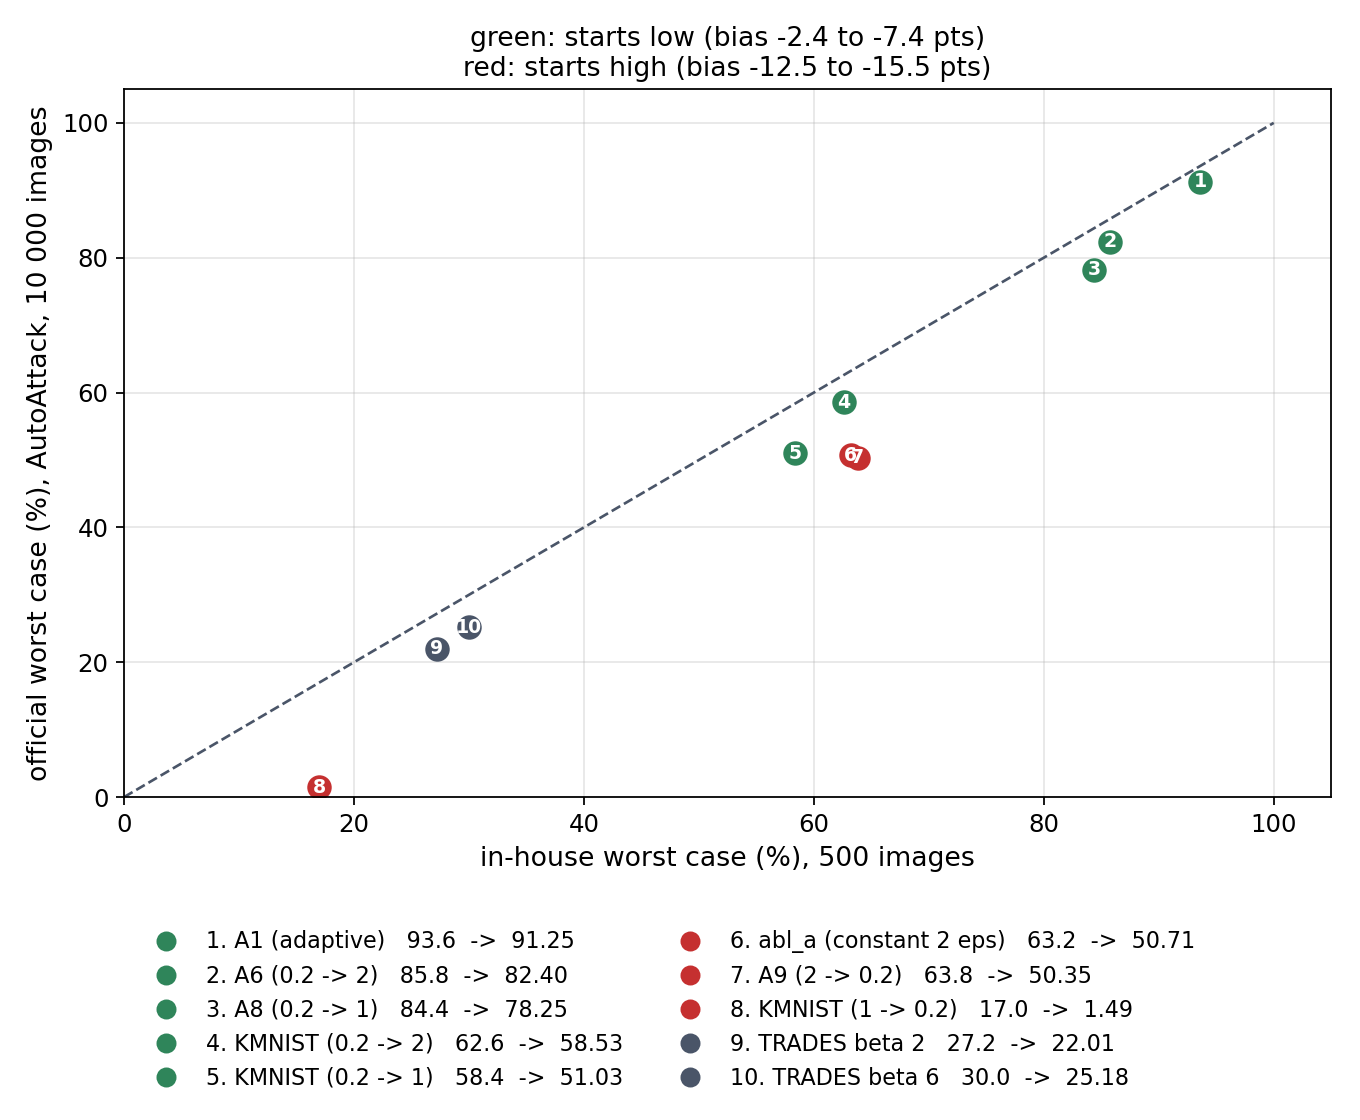
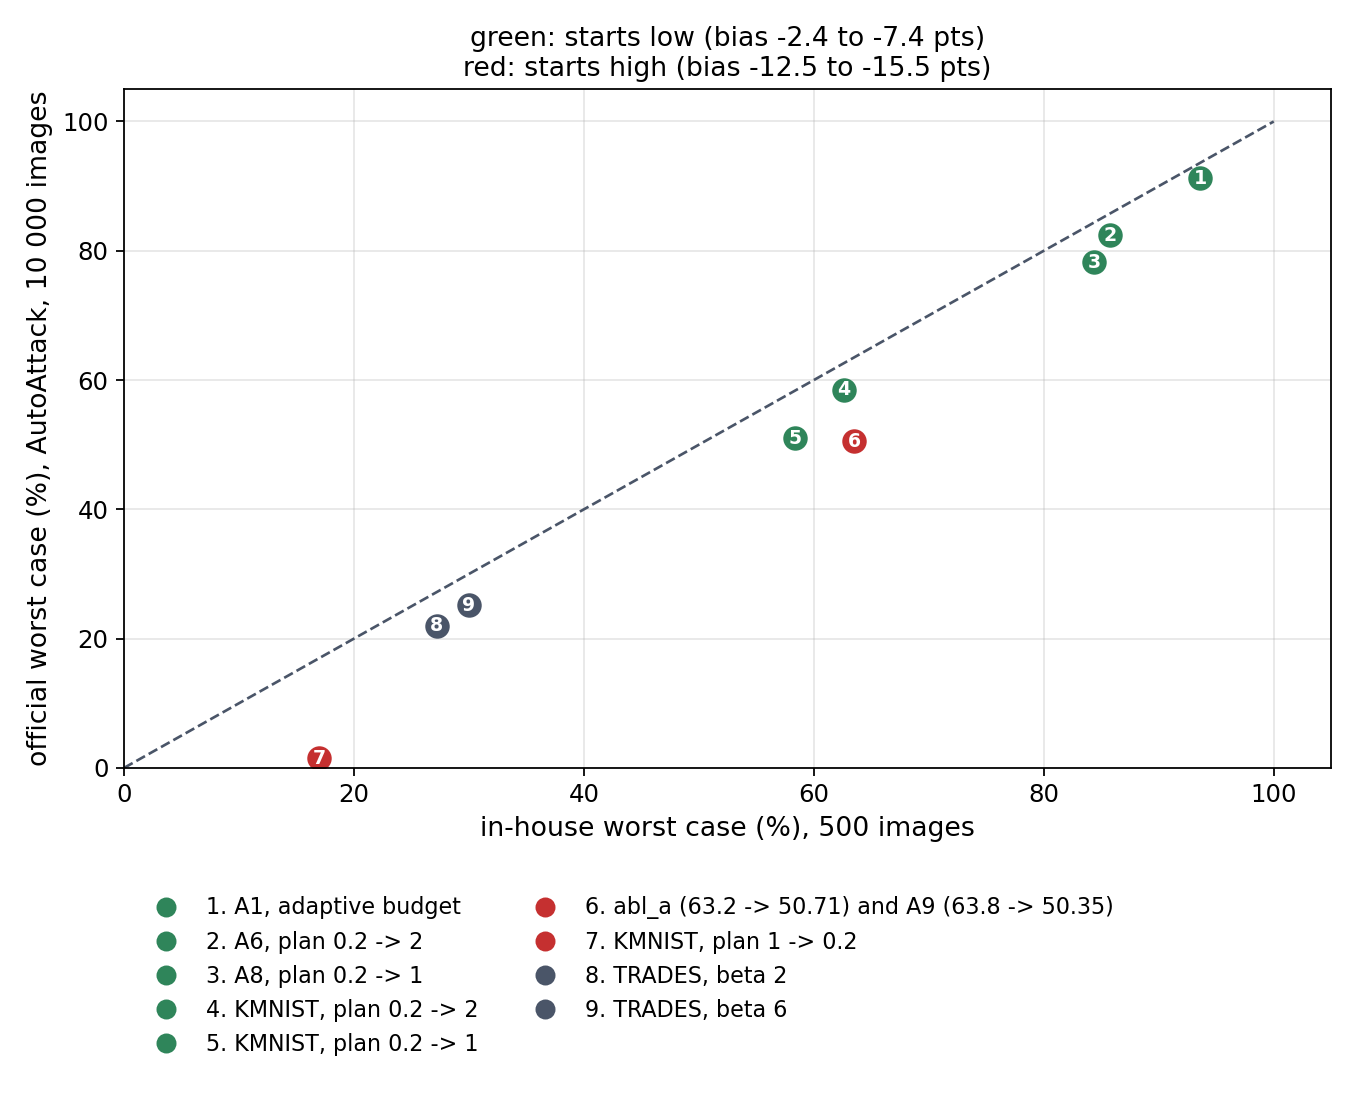
Figures : libelles anglais, texte minimal (numeros + legende pour le nuage), et controle automatique de chevauchement a chaque generation. References des figures mises a jour dans l'article

diff --git a/adversarial/article/figures.py b/adversarial/article/figures.py
@@ -36,13 +36,45 @@ ORANGE = "#c05621"
 GRIS = "#4a5568"
 
 
+def _verifier_chevauchements(fig):
+    """Controle automatique : aucun texte de la figure ne doit en recouvrir un
+    autre. C'est ce qui a fait refaire la figure 3 le 13/09 (etiquettes qui se
+    chevauchaient) ; le test est donc rejoue a chaque generation."""
+    import itertools
+    fig.tight_layout()
+    fig.canvas.draw()
+    rendu = fig.canvas.get_renderer()
+    elements = []
+    for ax in fig.axes:
+        for t in ax.texts:
+            if t.get_text().strip():
+                elements.append((t.get_text().replace("\n", " | "),
+                                 t.get_window_extent(rendu)))
+        for t in (ax.title, ax.xaxis.label, ax.yaxis.label):
+            if t.get_text().strip():
+                elements.append(("[" + t.get_text()[:16] + "]",
+                                 t.get_window_extent(rendu)))
+        leg = ax.get_legend()
+        if leg is not None:
+            elements.append(("[legende]", leg.get_window_extent(rendu)))
+    chevauchements = []
+    for (n1, b1), (n2, b2) in itertools.combinations(elements, 2):
+        inter = b1.intersection(b1, b2)
+        if inter is not None and inter.width * inter.height > 30:
+            chevauchements.append((n1, n2))
+    for n1, n2 in chevauchements:
+        print(f"       [WARN] chevauchement : {n1} <-> {n2}")
+    return len(elements), len(chevauchements)
+
+
 def _enregistrer(fig, nom):
     os.makedirs(DOSSIER, exist_ok=True)
     chemin = os.path.join(DOSSIER, nom)
-    fig.tight_layout()
+    valides, chevauchements = _verifier_chevauchements(fig)
+    etat = "OK" if chevauchements == 0 else f"{chevauchements} chevauchement(s)"
     fig.savefig(chemin, dpi=160)
     plt.close(fig)
-    print(f"[OK] {chemin}")
+    print(f"[{etat}] {chemin}  ({valides} elements de texte)")
 
 
 # ---------------------------------------------------------------------------
@@ -67,18 +99,19 @@ ORDRE = {
     "KMNIST": ("0.2 -> 1 eps", "1 -> 0.2 eps", (58.4, 51.03), (17.0, 1.49)),
 }
 
-# In-house vs official, with family: (short label, in-house, official, family)
+# In-house vs official. (legend text, in-house, official, family). `abl_a` and
+# `A9` land on the same point (63.2/50.71 and 63.8/50.35) : they are merged into
+# one marker so that nothing overlaps.
 NUAGE = [
-    ("A1 (adaptive)", 93.6, 91.25, "low"),
-    ("A6 (0.2 -> 2)", 85.8, 82.40, "low"),
-    ("A8 (0.2 -> 1)", 84.4, 78.25, "low"),
-    ("KMNIST (0.2 -> 2)", 62.6, 58.53, "low"),
-    ("KMNIST (0.2 -> 1)", 58.4, 51.03, "low"),
-    ("abl_a (constant 2 eps)", 63.2, 50.71, "high"),
-    ("A9 (2 -> 0.2)", 63.8, 50.35, "high"),
-    ("KMNIST (1 -> 0.2)", 17.0, 1.49, "high"),
-    ("TRADES beta 2", 27.2, 22.01, "other"),
-    ("TRADES beta 6", 30.0, 25.18, "other"),
+    ("A1, adaptive budget", 93.6, 91.25, "low"),
+    ("A6, plan 0.2 -> 2", 85.8, 82.40, "low"),
+    ("A8, plan 0.2 -> 1", 84.4, 78.25, "low"),
+    ("KMNIST, plan 0.2 -> 2", 62.6, 58.53, "low"),
+    ("KMNIST, plan 0.2 -> 1", 58.4, 51.03, "low"),
+    ("abl_a (63.2 -> 50.71) and A9 (63.8 -> 50.35)", 63.5, 50.5, "high"),
+    ("KMNIST, plan 1 -> 0.2", 17.0, 1.49, "high"),
+    ("TRADES, beta 2", 27.2, 22.01, "other"),
+    ("TRADES, beta 6", 30.0, 25.18, "other"),
 ]
 
 # Same recipe, two datasets (official both sides)
@@ -170,7 +203,7 @@ def figure_nuage():
         ax.annotate(str(i), xy=(maison, officiel), xytext=(0, 0),
                     textcoords="offset points", ha="center", va="center",
                     fontsize=8.5, color="white", fontweight="bold")
-        entrees.append((f"{i}. {nom}   {maison:.1f}  ->  {officiel:.2f}", couleur))
+        entrees.append((f"{i}. {nom}", couleur))
     ax.set_xlim(0, 105)
     ax.set_ylim(0, 105)
     ax.set_xlabel("in-house worst case (%), 500 images")
@@ -214,6 +247,39 @@ def figure_transposition():
     ax.grid(axis="y", alpha=0.3)
     ax.legend(fontsize=11)
     _enregistrer(fig, "fig4_recipe_transfers.png")
+
+
+def _verifier_chevauchements(fig):
+    """Controle automatique : aucune texte de la figure ne doit en recouvrir un
+    autre. C'est ce qui a fait refaire la figure 3 le 13/09 (etiquettes qui se
+    chevauchaient) ; le controle rejoue le test a chaque generation."""
+    import itertools
+    fig.tight_layout()
+    fig.canvas.draw()
+    rendu = fig.canvas.get_renderer()
+    elements = []
+    for ax in fig.axes:
+        for t in ax.texts:
+            if t.get_text().strip():
+                elements.append((t.get_text().replace("\n", " | "),
+                                 t.get_window_extent(rendu)))
+        for t in (ax.title, ax.xaxis.label, ax.yaxis.label):
+            if t.get_text().strip():
+                elements.append(("[" + t.get_text()[:16] + "]",
+                                 t.get_window_extent(rendu)))
+        leg = ax.get_legend()
+        if leg is not None:
+            elements.append(("[legende]", leg.get_window_extent(rendu)))
+    chevauchements = []
+    for (n1, b1), (n2, b2) in itertools.combinations(elements, 2):
+        inter = b1.intersection(b1, b2)
+        if inter is not None and inter.width * inter.height > 30:
+            chevauchements.append((n1, n2))
+    if chevauchements:
+        print(f"[WARN] {nom} : {len(chevauchements)} chevauchement(s) de texte")
+        for n1, n2 in chevauchements:
+            print(f"       {n1} <-> {n2}")
+    return len(elements), len(chevauchements)
 
 
 if __name__ == "__main__":

diff --git a/adversarial/article/ARTICLE-fr.md b/adversarial/article/ARTICLE-fr.md
@@ -246,8 +246,10 @@ modèle, la cross-entropie adverse se bloque à `ln(10) = 2.303` (le niveau du
 hasard sur dix classes), et le modèle reste à ce plateau pendant la fin du run.
 Il n'apprend plus rien, il répond uniformément.
 
-FIGURE 1 : la courbe en cloche (pire cas en fonction du budget de l'attaque
-interne).
+FIGURE 1 (`figures/fig1_budget_bell.png`, libellés en anglais) : le pire cas en
+fonction du budget de l'attaque interne. Ligne bleue : budgets constants (le sommet
+est à ~2 eps). Flèches : les deux plans de budget, vert pour un départ bas (le bon),
+rouge pour un départ haut.
 
 ### 4.3 Le pas compte autant que le budget
 
@@ -332,7 +334,10 @@ La même expérience, avec des plans moins chers, a servi de garde-fou : un plan
 0.0% — baisser le *plafond* détruit la robustesse. C'est le **départ** qui doit
 être bas, pas le plafond.
 
-FIGURE 2 : `A6` contre `A9`, mêmes budgets, ordre inversé.
+FIGURE 2 (`figures/fig2_order.png`) : les deux plans de budget, mêmes budgets, même
+coût, ordre inversé — en maison (500 images) et au juge officiel (AutoAttack,
+10 000 images). Les deux écarts, et le fait que l'écart OFFICIEL soit plus grand,
+sont annotés sur la figure.
 
 ### 4.5 L'extension : un budget adaptatif, batch par batch
 
@@ -474,7 +479,11 @@ réduit la précision robuste de 2.24% »), ce qui signifie que le 51.03% est
 lui-même légèrement optimiste. Aucun avertissement sur le 58.53%. Les deux
 chiffres KMNIST ne sont donc pas de qualité identique, et la model card le dira.
 
-FIGURE 3 : pire cas maison contre pire cas officiel, avec la diagonale.
+FIGURE 3 (`figures/fig3_inhouse_vs_official.png`) : pire cas maison (x) contre pire
+cas officiel (y), chaque point numéroté et listé en légende (`abl_a` et `A9` sont
+fusionnés : ils tombent sur le même point). Vert : recettes à départ bas, rouge :
+départ haut. Les points verts sont près de la diagonale, les rouges s'en détachent
+vers le bas.
 
 ---
 
@@ -561,7 +570,9 @@ avant de transposer une recette.
 nombre **pour un jeu de données donné**. Toute recette publiée sans son jeu de
 validation croisée est une recette qui n'a pas été testée.
 
-FIGURE 4 : les deux courbes, mêmes axes, même forme, hauteurs différentes.
+FIGURE 4 (`figures/fig4_recipe_transfers.png`) : les deux recettes présentes à
+l'identique sur les deux jeux, mesurées officiellement des deux côtés. Même recette,
+deux hauteurs : la recette se transpose, le niveau non.
 
 ---
 
